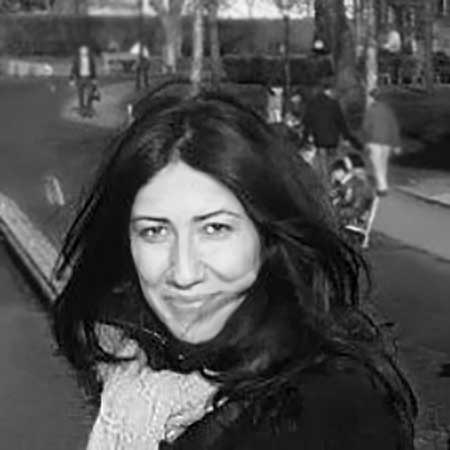
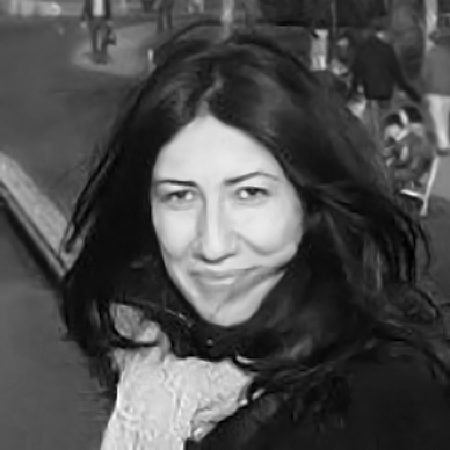
updated several team images and feature image
mouna
leigh
penelope
najmeh

genomic
visualization

diff --git a/faq.html b/faq.html
@@ -112,7 +112,7 @@ $( document ).ready( function() {
             <p>LORIS is designed to simplify integration, management, and dissemination of cohort studies that include various neuroimaging modalities, behavioral tests, genetic, and neurophysiological data. It provides secure web-based access to data validation and quality control modules, as well as visualization and basic statistical tools. </p>
 
             <strong id="four">3. What do I need to install and maintain LORIS?</strong>
-            <p>The prerequisites to install LORIS and installation instructions are in the LORIS README. After installation, your LORIS must be configured - see Initial Setup and Configuration (https://github.com/aces/Loris/wiki/Setup). It is recommended to upgrade to the most <a href="https://github.com/aces/Loris/releases" class="underline" target="_blank">recent LORIS release</a> - see <a href="https://github.com/aces/Loris/wiki/Setup" class="underline" target="_blank">Updating your LORIS</a> for more details. </p>
+            <p>The prerequisites to install LORIS and installation instructions are in the LORIS README. After installation, your LORIS must be configured - see <a href="https://github.com/aces/Loris/wiki/Setup" class="underline" target="_blank">Initial Setup and Configuration</a>. It is recommended to upgrade to the most <a href="https://github.com/aces/Loris/releases" class="underline" target="_blank">recent LORIS release</a> - see <a href="https://github.com/aces/Loris/wiki/Setup" class="underline" target="_blank">Updating your LORIS</a> for more details. </p>
 
             <strong id="five">4. How to get LORIS?</strong>
             <p>The latest build of LORIS can be downloaded on <a href="https://github.com/aces/LORIS" class="underline" target="_blank">Github</a>- see our <a href="getstarted.html" class="underline">Getting Started</a> page.</p>
@@ -158,7 +158,7 @@ $( document ).ready( function() {
             <p>LORIS’ CouchDB-based Data Querying Tool outperforms traditional MySQL-based cached retrieval by a factor of 4 for data querying and extraction. (Based on a medium-sized study with 7500 instrument datasets.) (D. MacFarlane, 2014) <a href="http://3design.github.io/images/poster.pdf" target="_blank" class="underline">[see poster]</a>.</p>
 
             <strong id="eighteen">17. How is data validated in LORIS?</strong>
-            <p>LORIS has many Quality Control features enabling study staff to review, flag and track data quality at every level. Additional features in the Statistics module provide at-a-glance outlier identification. See our Quality Control **link to Quality Control here**</p>
+            <p>LORIS has many Quality Control features enabling study staff to review, flag and track data quality at every level. Additional features in the Statistics module provide at-a-glance outlier identification. See our <a href="features.html#quality-control" class="underline">Quality Control</a> section of the Features page.</p>
 
             <strong id="nineteen">18. What is a LORIS Module?</strong>
             <p>A LORIS Module is a customizable component with a specific functionality that can be easily added or removed to accommodate a variety of study requirements. For example, the Candidate Information Module contains all information regarding overall candidate, proband, and participant status. Modules can be accessed through the menu tabs at the top of each LORIS webpage. See <a href="https://github.com/aces/Loris/wiki/LORIS-Modules" class="underline" target="_blank">the wiki</a> for more information. </p>

diff --git a/features.html b/features.html
@@ -219,7 +219,7 @@ $( document ).ready( function() {
             </li>
             <li>
               <h3>Biosamples</h3>
-              <p>LORIS allows the user to enter biosample data including blood samples, cell culture data, as well as environmental samples for genomic analysis.</p>
+              <p>LORIS allows the user to track biosample data including blood samples, cell culture data, as well as environmental samples for genomic analysis.</p>
             </li>
           </ul>
         </div>
@@ -232,11 +232,12 @@ $( document ).ready( function() {
 
     <section>
       <div class="feature-section white" id="data-management">
-        <h2 class="center ">Genomics</h2>
+        <div class="block bottom-padding-none"><h2 class="center ">Genomics</h2>
         <p class="feature-p fix">Loris makes it easy to manage large amounts of data. With a variety of customizable fields for organization and sorting, Loris can help you access the information you need when you need it.</p>
         <div class="feature-image-center">
           <a href="images/LORIS-genomic-screen.png" data-lighter><img src="images/LORIS-genomic-screen.png"></a>
-        </div>   
+        </div>   </div>
+        
         <div class="clear"></div>
     </section>
  
@@ -328,7 +329,7 @@ $( document ).ready( function() {
           </ul>
         </div>
         <div class="feature-image-right">
-          <a href="images/LORIS-home-screen.png" data-lighter><img src="images/LORIS-home-screen.png"></a>
+          <a href="images/LORIS-visualization-screen.png" data-lighter><img src="images/LORIS-visualization-screen.png"></a>
         </div>
       </div>
       <div class="clear"></div>

diff --git a/about.html b/about.html
@@ -155,11 +155,11 @@ $( document ).ready( function() {
             <div class="credits-text"><h3>Gregory Luneau</h3></div>
           </div> 
           <div class="credits-box">
-            <img src="images/LORIS-team-blank.jpg">
+            <img src="images/LORIS-team-mouna.jpg">
             <div class="credits-text"><h3>Mouna Safi-Harab</h3></div>
           </div> 
           <div class="credits-box">
-            <img src="images/LORIS-team-blank.jpg">
+            <img src="images/LORIS-team-leigh-macintyre.jpg">
             <div class="credits-text"><h3>Leigh MacIntyre</h3></div>
           </div> 
           <div class="credits-box">
@@ -171,7 +171,7 @@ $( document ).ready( function() {
             <div class="credits-text"><h3>Pierre-Emmanuel Morin</h3></div>
           </div>
           <div class="credits-box">
-            <img src="images/LORIS-team-blank.jpg">
+            <img src="images/LORIS-team-penelope.jpg">
             <div class="credits-text"><h3>Penelope Kostopoulos</h3></div>
           </div>
           <div class="credits-box">

diff --git a/css/common_styles.css b/css/common_styles.css
@@ -409,6 +409,9 @@ nav ul li.first {
 .bottom-margin {
 	margin-bottom: 50px;
 }
+.bottom-padding-none {
+	padding-bottom: 0 !important;
+}
 .topmargin {
 	margin-top: 100px;
 }
@@ -550,8 +553,10 @@ nav ul li.first {
 }
 .feature-image-center {
 	width: 100%;
+	max-width: 1200px;
+	margin: 0 auto;
 	height: 400px;
-	padding: 0 7.9%;
+	/*padding: 0 7.9%;*/
 	text-align: center;
 	overflow: hidden;
 }
